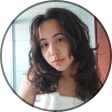
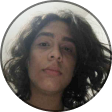
profiles adjust

diff --git a/index.html b/index.html
@@ -14,7 +14,7 @@
     <div id="container">
         <div id="profile">
             <img src="./assets/avatar.png" alt="Malu linda"/>
-            <p>@marylu</p>
+            <p>@paulocroft</p>
         </div>
 
         <div id="switch" onclick="toggleMode()">
@@ -29,17 +29,17 @@
         <li> <a href="#" target="_blank">Descubra minhas utilidades!</a></li>
     </ul>
     <div id="social-links">
-        <a href="https://github.com/marylu007" target="_blank">
+        <a href="https://github.com/littlecroft/" target="_blank">
             <ion-icon name="logo-github"></ion-icon>
         </a>
-        <a href="https://www.instagram.com/marylu_reis/" target="_blank">   
+        <a href="https://www.instagram.com/croftimages/" target="_blank">   
             <ion-icon name="logo-instagram"></ion-icon>
         </a> 
-        <a href="https://www.youtube.com/channel/UCfM-3naWFsD_IkGJeok7p0w" target="_blank">
+        <a href="https://www.youtube.com/@littlecroft" target="_blank">
             <ion-icon name="logo-youtube"></ion-icon>
         </a>
-        <a href="https://github.com/marylu007" target="_blank">
-            <ion-icon name="logo-linkedin"></ion-icon>
+        <a href="https://steamcommunity.com/id/littlecroft" target="_blank">
+            <ion-icon name="logo-steam"></ion-icon>
         </a>
     </div>
      <footer> 
